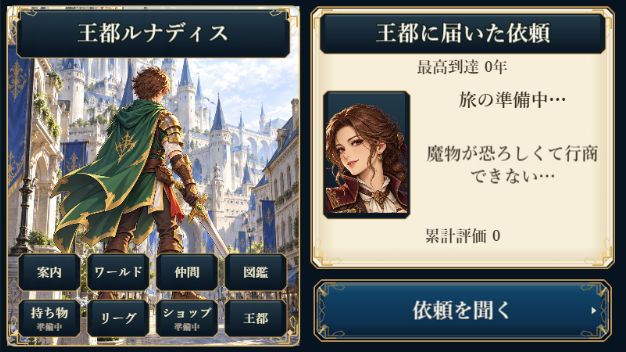
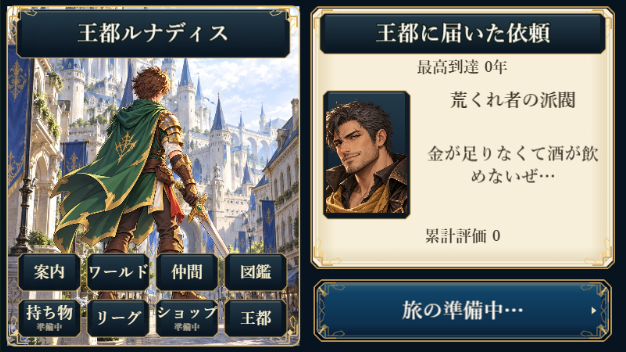
fix(karma): clarify loading and retry actions

diff --git a/games/karma-quest/src/conceptArt.ts b/games/karma-quest/src/conceptArt.ts
@@ -446,6 +446,7 @@ function button(
   const g = scene.add.graphics();
   let armed = false;
   let processing = false;
+  let busy = false;
   const outline = (inset: number) => {
     const l = x - width / 2 + inset, r = x + width / 2 - inset;
     const t = y - height / 2 + inset, b = y + height / 2 - inset;
@@ -475,7 +476,7 @@ function button(
     g.lineStyle(1, 0x6192b4, blue ? 0.7 : 0.15).strokePoints(outline(8), true);
     ornament(g, x - width / 2 + 2, y - height / 2 + 2, width - 4, height - 4);
     if (state === "focus") g.lineStyle(2, 0xffffff, 0.72).strokePoints(outline(8), true);
-    if (state === "processing") g.fillStyle(0x071017, 0.44).fillPoints(outline(5), true);
+    if (busy || state === "processing") g.fillStyle(0x071017, 0.44).fillPoints(outline(5), true);
     // Small gold corner flourishes, matching the mock's inset metalwork.
     for (const side of [-1, 1]) {
       const edge = x + side * (width / 2 - 13);
@@ -508,10 +509,17 @@ function button(
   if (detail) labelText.setData("detailText", text(scene, root, x, y + 19, detail, 19, "#eadfca", "700", width - 76).setStroke("#091420", 0));
   const zone = scene.add.zone(x, y, width, height).setName(`cta:${label}`).setInteractive({ useHandCursor: true });
   root.add(zone);
-  zone.on("pointerover", () => { if (!processing) paint("focus"); });
-  zone.on("pointerdown", () => { if (!processing) { armed = true; paint("pressed"); } });
+  labelText.setData("setBusy", (value: boolean) => {
+    if (busy === value) return;
+    busy = value;
+    armed = false;
+    zone.input!.enabled = !value;
+    paint(value ? "processing" : "idle");
+  });
+  zone.on("pointerover", () => { if (!processing && !busy) paint("focus"); });
+  zone.on("pointerdown", () => { if (!processing && !busy) { armed = true; paint("pressed"); } });
   zone.on("pointerup", () => {
-    if (!armed || processing) return;
+    if (!armed || processing || busy) return;
     armed = false;
     processing = true;
     paint("processing");
@@ -634,7 +642,7 @@ function buildTitle(scene: Runtime): Phaser.GameObjects.Container {
   const homeHero = fitted(scene, root, HERO_BACK_KEY, 150, 770, 480, 634);
   registerHeroKarmaVisual(scene, root, homeHero, 150, 650, 330, 440, 142, 475);
   hudPlate(scene, root, 186, 621, 314, 38);
-  text(scene, root, 186, 621, "新しい依頼が届いています", 21, "#ffffff", "900").setStroke("#091420", 1);
+  const requestStatus = text(scene, root, 186, 621, "新しい依頼が届いています", 21, "#ffffff", "900").setStroke("#091420", 1);
   requestCard(scene, root, 225, 682, 414, 92);
   requesterPortrait(scene, root, 31, 648, 72, 66, true);
   const homeRequestTitle = text(scene, root, 260, 655, "", 20, "#3c2a1e", "900").setName("home-request-title");
@@ -642,8 +650,8 @@ function buildTitle(scene: Runtime): Phaser.GameObjects.Container {
   root.setData("refreshRequest", () => {
     (root.getData("refreshRequester") as (request?: KarmaRequest) => void)(scene.homeRequest);
     homeRequestTitle.setText(scene.homeRequest ? FACTION_LABEL[scene.homeRequest.faction] : "新しい依頼");
-    if (scene.journeyPending) homeRequestTitle.setText("旅の準備中…");
-    else if (scene.journeyError) homeRequestTitle.setText("読込失敗・押して再試行");
+    requestStatus.setText(scene.journeyPending ? "旅の準備中…" : scene.journeyError ? "読込失敗・依頼を押して再試行" : "新しい依頼が届いています");
+    requestStatus.setFontSize(scene.journeyError ? 18 : 21);
     const requestCopy = scene.homeRequest?.text ?? "王都であなたの決断を待っています。";
     homeRequestBody
       .setFontSize(requestCopy.length > 44 ? 15 : requestCopy.length > 30 ? 18 : 21)
@@ -779,7 +787,7 @@ function buildChoice(scene: Runtime): Pick<MockUi, "choiceRoot" | "yearText" | "
   const requestTitle = text(scene, root, 290, 111, "", 20, "#35281e", "900", 270);
   const requestText = text(scene, root, 290, 193, "", 22, "#352f29", "700", 264).setAlign("left");
   const acceptLabel = button(scene, root, 225, 598, 382, 80, "食料を支援する", 0x0758a4, () => invoke(scene, "onKarmaChoice", true), "依頼者の力になる");
-  button(scene, root, 225, 694, 382, 80, "支援を断る", 0x981d25, () => invoke(scene, "onKarmaChoice", false), "他の三派閥がそれぞれ +1");
+  root.setData("declineLabel", button(scene, root, 225, 694, 382, 80, "支援を断る", 0x981d25, () => invoke(scene, "onKarmaChoice", false), "他の三派閥がそれぞれ +1"));
   text(scene, root, 225, 766, "「どんな選択にも、意味がある」", 17, "#fff3d0", "700");
   screenFrame(scene, root);
   return { choiceRoot: root, yearText, requestTitle, requestText, acceptLabel };
@@ -802,8 +810,8 @@ function buildLandscapeChoice(scene: Runtime): NonNullable<MockUi["landscapeChoi
   const requestText = text(scene, root, 591, 157, "", 24, "#352f29", "700", 338).setAlign("left");
   const acceptLabel = button(scene, root, 591, 301, 382, 80, "依頼を引き受ける", 0x0758a4,
     () => invoke(scene, "onKarmaChoice", true), "依頼者の力になる");
-  button(scene, root, 591, 397, 382, 80, "支援を断る", 0x981d25,
-    () => invoke(scene, "onKarmaChoice", false), "他の三派閥がそれぞれ +1");
+  root.setData("declineLabel", button(scene, root, 591, 397, 382, 80, "支援を断る", 0x981d25,
+    () => invoke(scene, "onKarmaChoice", false), "他の三派閥がそれぞれ +1"));
   const frame = scene.add.graphics().lineStyle(2, 0xe3bd69, 0.96).strokeRoundedRect(8, 8, 374, 434, 10);
   ornament(frame, 8, 8, 374, 434);
   root.add(frame);
@@ -1035,13 +1043,15 @@ function buildLandscapeOverview(scene: Runtime, final: boolean): Phaser.GameObje
     heading.setPosition(655, 128).setWordWrapWidth(226, true);
     body.setName("landscape-home-request-body").setPosition(655, 212).setWordWrapWidth(226, true).setFontSize(22);
   }
-  button(scene, root, 591, 397, 382, 80, final ? "もう一度旅に出る" : "依頼を聞く", 0x0758a4,
+  const journeyLabel = button(scene, root, 591, 397, 382, 80, final ? "もう一度旅に出る" : "依頼を聞く", 0x0758a4,
     () => invoke(scene, "startRun"));
   const frame = scene.add.graphics().lineStyle(2, 0xe3bd69, 0.96).strokeRoundedRect(8, 8, 374, 434, 10);
   ornament(frame, 8, 8, 374, 434);
   root.add(frame);
   if (!final) buildLandscapeHomeNavigation(scene, root);
   root.setData("refreshOverview", () => {
+    journeyLabel.setText(scene.journeyPending ? "旅の準備中…" : scene.journeyError ? "読み込みを再試行" : final ? "もう一度旅に出る" : "依頼を聞く");
+    (journeyLabel.getData("setBusy") as (busy: boolean) => void)(!!scene.journeyPending);
     if (final) {
       const history = scene.choiceHistory ?? [];
       const latest = history.at(-1), previous = history.at(-2);
@@ -1059,8 +1069,6 @@ function buildLandscapeOverview(scene: Runtime, final: boolean): Phaser.GameObje
       (root.getData("refreshRequester") as (request?: KarmaRequest) => void)(scene.homeRequest);
       status.setText(`最高到達 ${loadBestStage()}年`);
       heading.setText(scene.homeRequest ? FACTION_LABEL[scene.homeRequest.faction] : "新しい依頼");
-      if (scene.journeyPending) heading.setText("旅の準備中…");
-      else if (scene.journeyError) heading.setText("読込失敗・再試行");
       body.setText(scene.homeRequest?.text ?? "王都であなたの決断を待っています。");
       footer.setText(`累計評価 ${loadTotalEvaluation()}`);
     }
@@ -1320,8 +1328,6 @@ function refresh(scene: Runtime): void {
   }
   ui.yearText.setText(`${Phaser.Math.Clamp(scene.stage ?? 1, 1, 12)}年目  春`);
   ui.requestTitle.setText(request ? `依頼  ${FACTION_LABEL[request.faction]}` : "新しい依頼");
-  if (scene.artPending) ui.requestTitle.setText("場面を読み込み中…");
-  else if (scene.artError) ui.requestTitle.setText("読込失敗・選択で再試行");
   ui.requestText.setText(request?.text ?? "王都の民が、あなたの決断を待っています。どうしますか？");
   const actionLabels: Record<string, string> = {
     village_food: "食料を支援する",
@@ -1345,6 +1351,17 @@ function refresh(scene: Runtime): void {
     wideChoice.requestText.setText(ui.requestText.text);
     wideChoice.acceptLabel.setText(ui.acceptLabel.text);
     (wideChoice.acceptLabel.getData("detailText") as Phaser.GameObjects.Text).setText(detail?.text ?? "");
+  }
+  for (const choice of [ui, wideChoice]) {
+    if (!choice) continue;
+    const decline = choice.choiceRoot.getData("declineLabel") as Phaser.GameObjects.Text;
+    for (const label of [choice.acceptLabel, decline]) {
+      (label.getData("setBusy") as (busy: boolean) => void)(!!scene.artPending);
+      const detailText = label.getData("detailText") as Phaser.GameObjects.Text;
+      if (scene.artPending) detailText.setText("場面を準備しています…");
+      else if (scene.artError) detailText.setText("読込失敗・この選択で再試行");
+      else if (label === decline) detailText.setText("他の三派閥がそれぞれ +1");
+    }
   }
 }
 

diff --git a/games/karma-quest/e2e/game.spec.ts b/games/karma-quest/e2e/game.spec.ts
@@ -1065,6 +1065,23 @@ test("a normal twelve-year journey finishes using touch in both orientations", a
 });
 
 
+async function loadingFeedback(page: Page) {
+  return page.evaluate(() => {
+    const texts: string[] = [];
+    const actions: boolean[] = [];
+    const visit = (nodes: Phaser.GameObjects.GameObject[]) => {
+      for (const node of nodes) {
+        if (Reflect.get(node, "visible") === false) continue;
+        if (node.type === "Text") texts.push((node as Phaser.GameObjects.Text).text);
+        if (node.name.startsWith("cta:")) actions.push(!!node.input?.enabled);
+        if (node.type === "Container") visit((node as Phaser.GameObjects.Container).list);
+      }
+    };
+    visit(window.__qaGame.scene.getScene("GameScene").children.list);
+    return { texts, actions };
+  });
+}
+
 test("result images load on demand and retry without duplicate choices", async ({ page }) => {
   allowedConsoleErrors.get(page)?.push(/Failed to load resource: net::ERR_FAILED/);
   await page.waitForFunction(() => window.__qaGame.scene.getScene("GameScene").sys.isActive());
@@ -1089,6 +1106,9 @@ test("result images load on demand and retry without duplicate choices", async (
   await page.waitForFunction(() => !window.__qaGame.scene.getScene("GameScene").children.list.some(child => child.depth >= 2000 && child.depth <= 2002));
   await tapPoint(page, 225, 598);
   await expect.poll(() => page.evaluate(() => Reflect.get(window.__qaGame.scene.getScene("GameScene"), "artError"))).toBe(true);
+  await expect.poll(async () => (await loadingFeedback(page)).texts.filter(t => t === "読込失敗・この選択で再試行").length).toBe(2);
+  expect((await loadingFeedback(page)).texts).toContain("依頼  戦士の派閥");
+  expect((await loadingFeedback(page)).actions).toEqual([true, true]);
   await page.locator("canvas").screenshot({ path: "../../docs/review/karma-loading-error-portrait.png" });
   expect(await phase(page)).toBe("karma");
   expect(await page.evaluate(() => Reflect.get(window.__qaGame.scene.getScene("GameScene"), "choiceHistory").length)).toBe(0);
@@ -1098,6 +1118,9 @@ test("result images load on demand and retry without duplicate choices", async (
   await expect.poll(() => page.locator("canvas").evaluate(c => (c as HTMLCanvasElement).width)).toBe(800);
   await tapPoint(page, 591, 301);
   await expect.poll(() => attempts).toBe(failedAttempts + 1);
+  await expect.poll(async () => (await loadingFeedback(page)).actions).toEqual([false, false]);
+  expect((await loadingFeedback(page)).texts).toContain("依頼  戦士の派閥");
+  expect((await loadingFeedback(page)).texts.filter(t => t === "場面を準備しています…")).toHaveLength(2);
   await page.locator("canvas").screenshot({ path: "../../docs/review/karma-loading-landscape.png" });
   await tapPoint(page, 591, 397);
   expect(await phase(page)).toBe("karma");
@@ -1177,6 +1200,8 @@ test("home loads only its artwork and journey preparation retries safely", async
   });
   await tapPoint(page, 225, 660);
   await expect.poll(() => page.evaluate(() => Reflect.get(window.__qaGame.scene.getScene("GameScene"), "journeyError"))).toBe(true);
+  await expect.poll(async () => (await loadingFeedback(page)).texts).toContain("読込失敗・依頼を押して再試行");
+  await page.locator("canvas").screenshot({ path: "../../docs/review/karma-journey-error-portrait.png" });
   expect(await phase(page)).toBe("title");
   failRequests = false;
   await page.setViewportSize({ width: 800, height: 360 });
@@ -1184,6 +1209,7 @@ test("home loads only its artwork and journey preparation retries safely", async
   await page.evaluate(() => new Promise<void>(resolve => requestAnimationFrame(() => requestAnimationFrame(() => resolve()))));
   await tapPoint(page, 591, 397);
   await expect.poll(() => page.evaluate(() => Reflect.get(window.__qaGame.scene.getScene("GameScene"), "journeyPending"))).toBe(true);
+  await expect.poll(async () => (await loadingFeedback(page)).texts).toContain("旅の準備中…");
   await page.locator("canvas").screenshot({ path: "../../docs/review/karma-journey-loading.png" });
   await tapPoint(page, 591, 397);
   expect(await phase(page)).toBe("title");

diff --git a/docs/review/karma-loading-polish-2026-10-19.md b/docs/review/karma-loading-polish-2026-10-19.md
@@ -1,0 +1,25 @@
+# Karma Quest 読み込み操作のブラッシュアップ
+
+## 対象と完了条件
+
+最新mainの再点検に続き、起動修正PR #335の上で、日本語のモックUIの読み込み状態を改善する。1つの完成条件は「依頼の内容を見失わず、待機と再試行を区別して操作できること」。画像追加、ゲームループ変更、他作品への横展開は含めない。
+
+## 改善リストと実装
+
+- 依頼者名を読み込み表示で上書きしない。縦ホームは既存の通知帯、横ホームは開始ボタンに状態を表示。
+- 選択画面は選択肢の名前を維持し、補足行に準備中／再試行を表示。失敗時はどちらの選択でも改めて実行できる。
+- 待機中の両選択ボタンを暗くし、入力を停止。回転後も同じ状態を維持し、完了時に選択を1回だけ記録する。
+
+既存の遅延読み込み・失敗時の再試行を利用する。通信失敗だけで選択や評価を確定しない。
+
+## 検証
+
+- typecheck / lint / 単体63件 / build成功。
+- Chromiumの読み込み・再試行E2E 2件成功。
+- WebKit 7件成功（画面サイズ・音設定・回転・依頼・戦闘報告・結果画像と旅準備の再試行）。
+- Chromium全39件成功（3.4分）。12年完走、通常モック比較、保存、リーグ・レイドも確認。
+- 実スクリーンショットを目視確認。依頼名・本文・人物・CTAに新しい重なりなし。
+
+画像: [選択の再試行](karma-loading-error-portrait.png)、[横画面の待機](karma-loading-landscape.png)、[ホームの再試行](karma-journey-error-portrait.png)、[横ホームの待機](karma-journey-loading.png)。
+
+物理iOS Safari / Android Chromeと外部Portal Previewは未検証。WebKitは実機合格を意味しない。マージ・公開は本作業の完了報告とは区別する。

diff --git a/docs/decisions.md b/docs/decisions.md
@@ -1,5 +1,9 @@
 # 設計判断ログ
 
+## 2026-10-19: Karma Questの読み込み状態を操作部へ集約
+
+依頼者名を進捗・エラーで上書きせず、ホームの通知帯／開始ボタンと選択ボタンの補足行に表示する。待機中は選択ボタンの入力を止め、回転でも状態を維持する。通信失敗では評価・選択履歴を確定しない。素材追加やゲームループ変更なし。検証と画像は `docs/review/karma-loading-polish-2026-10-19.md`。
+
 ## 2026-10-19: Karma QuestのSDK起動待ちを制限
 
 外部SDKの停止でCanvas生成まで止まることを再現。スクリプト取得と初期化を合わせて8秒に制限し、失敗時は単体ゲームとして継続する。遅いSDK完了は言語・フックへ反映しない。既存の保存・ゲームループ・UIは維持。検証は `docs/review/karma-reassessment-2026-10-19.md`。

diff --git a/docs/TODO.md b/docs/TODO.md
@@ -1,5 +1,12 @@
 # TODO
 
+## 2026-10-19 Karma Quest 読み込み操作
+
+- [x] 依頼名を保持し、通知帯・CTAに読み込み状態を表示
+- [x] 選択待機中の入力を停止し、失敗後の再試行と回転を検証
+- [x] 検証画像をリポジトリへ保存（`docs/review/karma-loading-polish-2026-10-19.md`）
+- [ ] PRレビュー・統合と実端末／外部Portalのリリース確認
+
 ## 2026-09-21 ビジュアル強化ラウンド
 
 - [x] 剣戟の森: agile/tank専用敵アート、命中スパーク、撃破バースト、比較Visual QA（PR #103）
